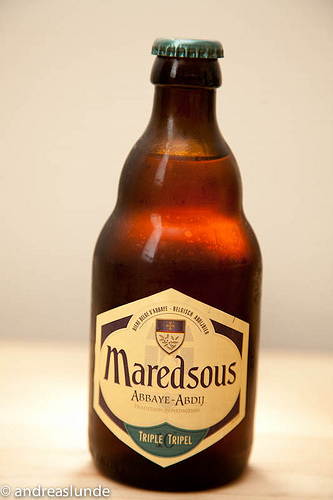
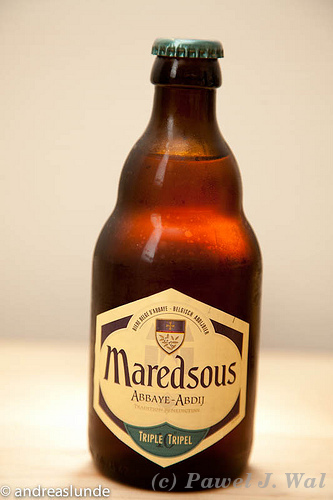
Watermarking image + bugfixes

Changed region(s): [[0.4505, 0.93, 0.7508, 0.99], [0.8408, 0.93, 0.991, 0.99], [0.7808, 0.93, 0.8108, 0.99]]

diff --git a/app/uploaders/local_image_uploader.rb b/app/uploaders/local_image_uploader.rb
@@ -1,51 +1,29 @@
 # encoding: utf-8
 
 class LocalImageUploader < CarrierWave::Uploader::Base
-
-  # Include RMagick or MiniMagick support:
   include CarrierWave::RMagick
-  # include CarrierWave::MiniMagick
 
-  # Choose what kind of storage to use for this uploader:
   storage :file
-  # storage :fog
 
-  # Override the directory where uploaded files will be stored.
-  # This is a sensible default for uploaders that are meant to be mounted:
   def store_dir
     "uploads/#{model.class.to_s.underscore}/#{mounted_as}/#{model.id}"
   end
 
-  # Provide a default URL as a default if there hasn't been a file uploaded:
-  # def default_url
-  #   # For Rails 3.1+ asset pipeline compatibility:
-  #   # ActionController::Base.helpers.asset_path("fallback/" + [version_name, "default.png"].compact.join('_'))
-  #
-  #   "/images/fallback/" + [version_name, "default.png"].compact.join('_')
-  # end
+  process :watermark
 
-  # Process files as they are uploaded:
-  # process :scale => [200, 300]
-  #
-  # def scale(width, height)
-  #   # do something
-  # end
-
-  # Create different versions of your uploaded files:
   version :thumb do
-     process :resize_to_fit => [250, 500000000]
+     process :resize_to_fit => [350, 0]
   end
 
-  # Add a white list of extensions which are allowed to be uploaded.
-  # For images you might use something like this:
-  # def extension_white_list
-  #   %w(jpg jpeg gif png)
-  # end
+  def extension_white_list
+    %w(jpg jpeg gif png)
+  end
 
-  # Override the filename of the uploaded files:
-  # Avoid using model.id or version_name here, see uploader/store.rb for details.
-  # def filename
-  #   "something.jpg" if original_filename
-  # end
+  def watermark
+    manipulate! do |img|
+      logo = Magick::Image.read("#{Rails.root}/app/assets/images/watermark.png").first
+      img = img.composite(logo, Magick::SouthEastGravity, Magick::OverCompositeOp)
+    end
+  end
 
 end
